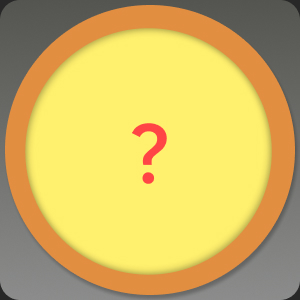
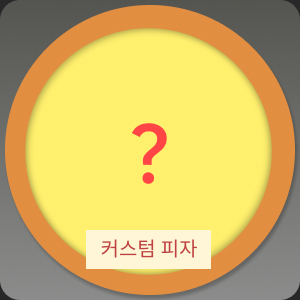
0707

Changed region(s): [[0.27, 0.75, 0.72, 0.9]]

diff --git a/src/pages/menu/Side.vue b/src/pages/menu/Side.vue
@@ -2,14 +2,14 @@
   <div>
     <Menunavbar />
     <div class="flex mt-4">
-      <img src="@/assets/side.jpg" class="box" alt="side">
-      <img src="@/assets/side.jpg" class="box" alt="side">
-      <img src="@/assets/side.jpg" class="box" alt="side">
-      <img src="@/assets/side.jpg" class="box" alt="side">
-      <img src="@/assets/side.jpg" class="box" alt="side">
-      <img src="@/assets/side.jpg" class="box" alt="side">
-      <img src="@/assets/side.jpg" class="box" alt="side">
-      <img src="@/assets/side.jpg" class="box" alt="side">
+      <img src="@/assets/menuside.jpg" class="box" alt="menuside">
+      <img src="@/assets/menuside.jpg" class="box" alt="menuside">
+      <img src="@/assets/menuside.jpg" class="box" alt="menuside">
+      <img src="@/assets/menuside.jpg" class="box" alt="menuside">
+      <img src="@/assets/menuside.jpg" class="box" alt="menuside">
+      <img src="@/assets/menuside.jpg" class="box" alt="menuside">
+      <img src="@/assets/menuside.jpg" class="box" alt="menuside">
+      <img src="@/assets/menuside.jpg" class="box" alt="menuside">
     </div>
   </div>
 </template>
@@ -35,7 +35,6 @@ export default {
 .box {
   flex: auto;
   width: 300px;
-  height: 300px;
   margin: 20px;
   border-radius: 20px;
 }

diff --git a/src/pages/menu/Pizza.vue b/src/pages/menu/Pizza.vue
@@ -11,8 +11,11 @@
       <img src="@/assets/menupizza.jpg" class="box" alt="menupizza">
       <img src="@/assets/custom.jpg" class="box" @click="moveToCustom" style="cursor: pointer" alt="custom">
     </div>
-    <div class="right">
-      <div class="click">
+    <div class="flex" style="height: 180px">
+      <div class="box"/>
+      <div class="box"/>
+      <div class="box"/>
+      <div class="click box">
         <img src="@/assets/arrow.png" class="arrow" alt="arrow"><br>
         <p class="mt-1">자신만의 피자를<br>만들어보세요!</p>
       </div>
@@ -43,19 +46,11 @@ export default {
 </script>
 
 <style scoped>
-.right {
-  position: absolute;
-  display: flex;
-  flex-direction: row;
-  flex-wrap: wrap;
-  width: 80%;
-  margin: auto;
-}
 .click {
   text-align: center;
 }
 .arrow {
-  width: 20%;
+  width: 7%;
   animation-name: bounce;
   animation-duration: 1.6s;
   animation-iteration-count: infinite;

diff --git a/src/pages/menu/Noodle.vue b/src/pages/menu/Noodle.vue
@@ -35,7 +35,6 @@ export default {
 .box {
   flex: auto;
   width: 300px;
-  height: 300px;
   margin: 20px;
   border-radius: 20px;
 }
